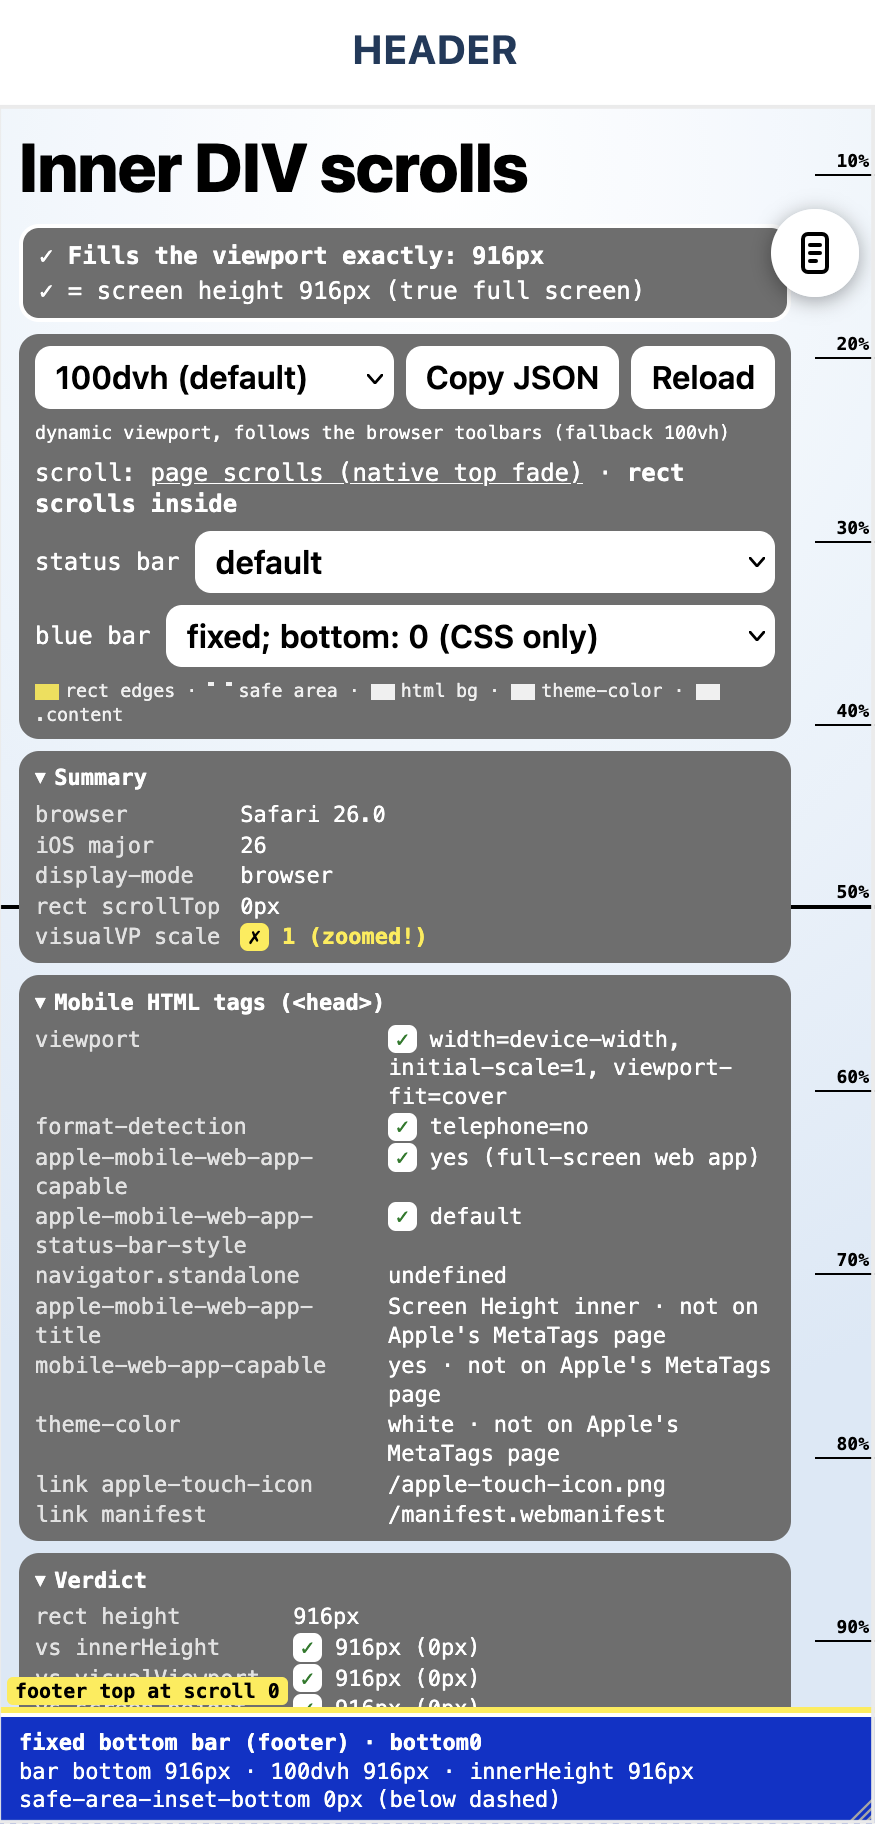
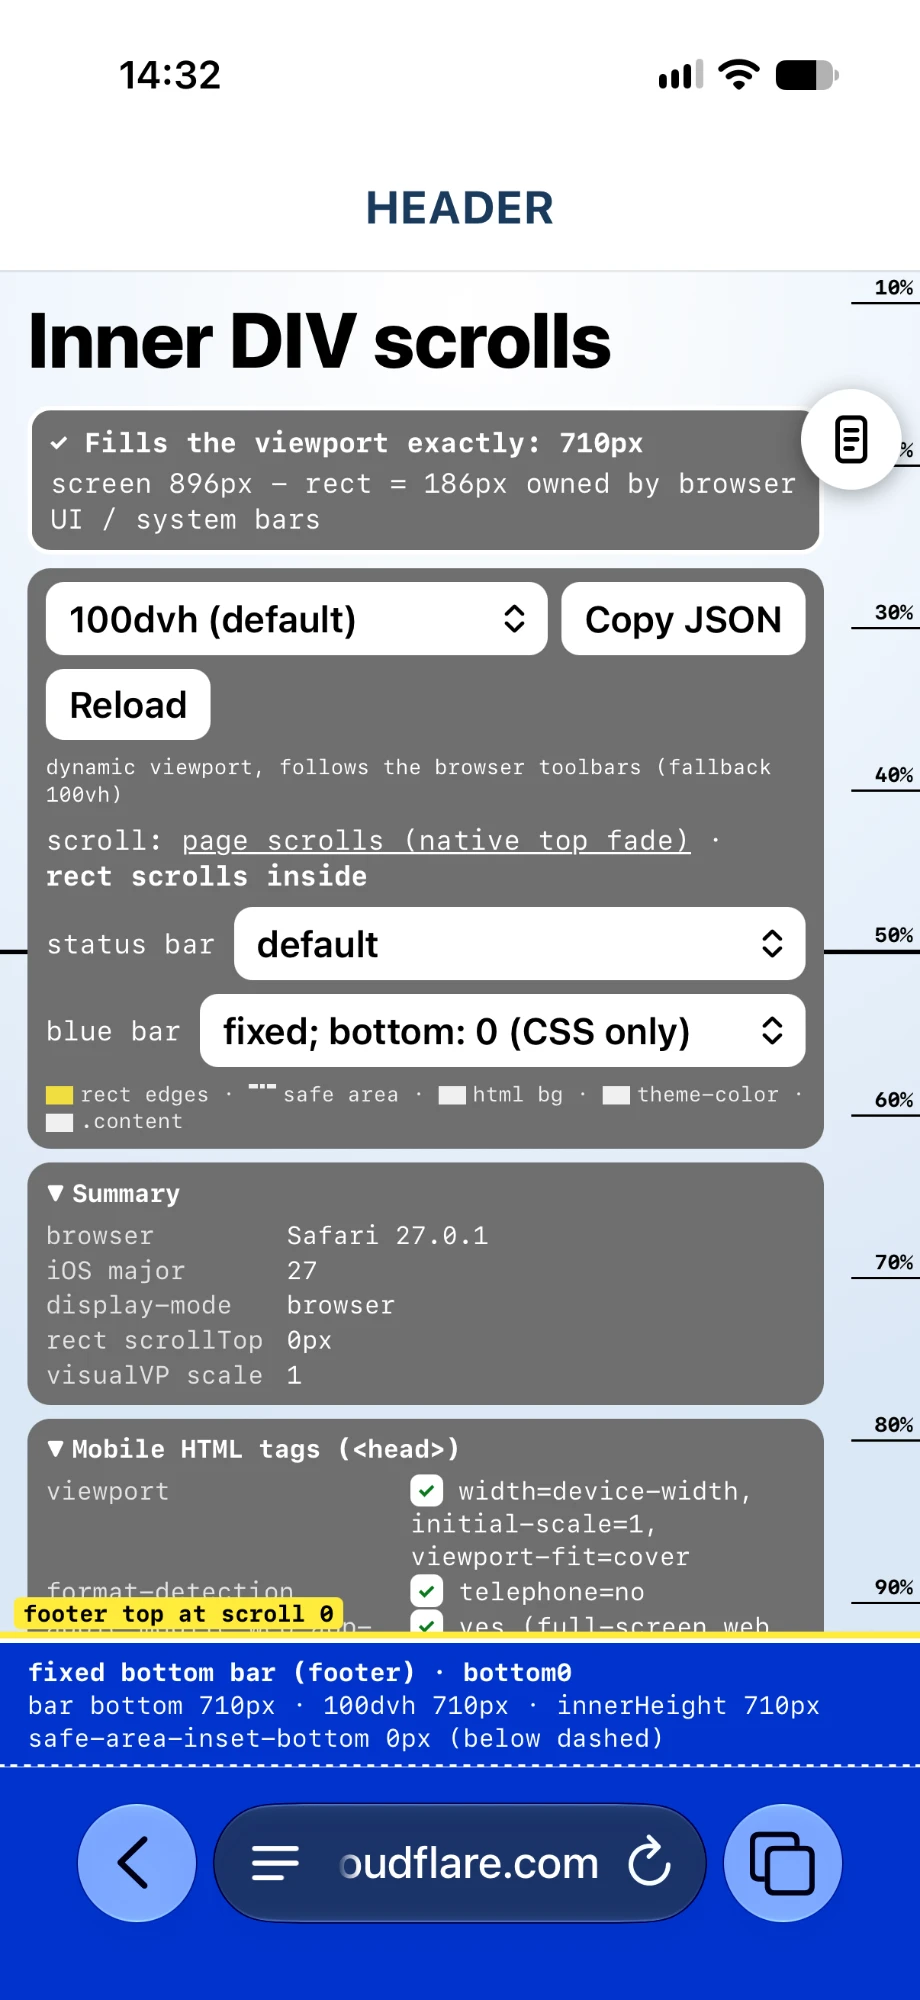
README: real phone screenshot; revert the zoom tolerance
- docs/screenshot-inner-div-scrolls.png: screenshot from the real phone
- panel: zoom alert is back to vv.scale !== 1

diff --git a/src/components/DebugPanel.vue b/src/components/DebugPanel.vue
@@ -143,8 +143,8 @@ const sections = computed<Section[]>(() => {
           : { label: 'rect scrollTop', value: px(r?.scrollTop) },
         {
           label: 'visualVP scale',
-          value: vv ? `${+vv.scale.toFixed(3)}${Math.abs(vv.scale - 1) > 0.005 ? ' (zoomed!)' : ''}` : 'n/a',
-          status: vv && Math.abs(vv.scale - 1) > 0.005 ? 'bad' : undefined,
+          value: vv ? `${+vv.scale.toFixed(3)}${vv.scale !== 1 ? ' (zoomed!)' : ''}` : 'n/a',
+          status: vv && vv.scale !== 1 ? 'bad' : undefined,
         },
       ],
     },
@@ -322,8 +322,8 @@ const sections = computed<Section[]>(() => {
         { label: 'visualVP pageTop', value: vv ? px(vv.pageTop) : 'n/a' },
         {
           label: 'visualVP scale',
-          value: vv ? `${+vv.scale.toFixed(3)}${Math.abs(vv.scale - 1) > 0.005 ? ' (zoomed!)' : ''}` : 'n/a',
-          status: vv && Math.abs(vv.scale - 1) > 0.005 ? 'bad' : undefined,
+          value: vv ? `${+vv.scale.toFixed(3)}${vv.scale !== 1 ? ' (zoomed!)' : ''}` : 'n/a',
+          status: vv && vv.scale !== 1 ? 'bad' : undefined,
         },
         { label: '@media W × H', value: `${px(m.media.width)} × ${px(m.media.height)}` },
         { label: 'screen − inner', value: `${px(m.screen.heightOriented - m.window.innerHeight)} (UI outside page)` },
